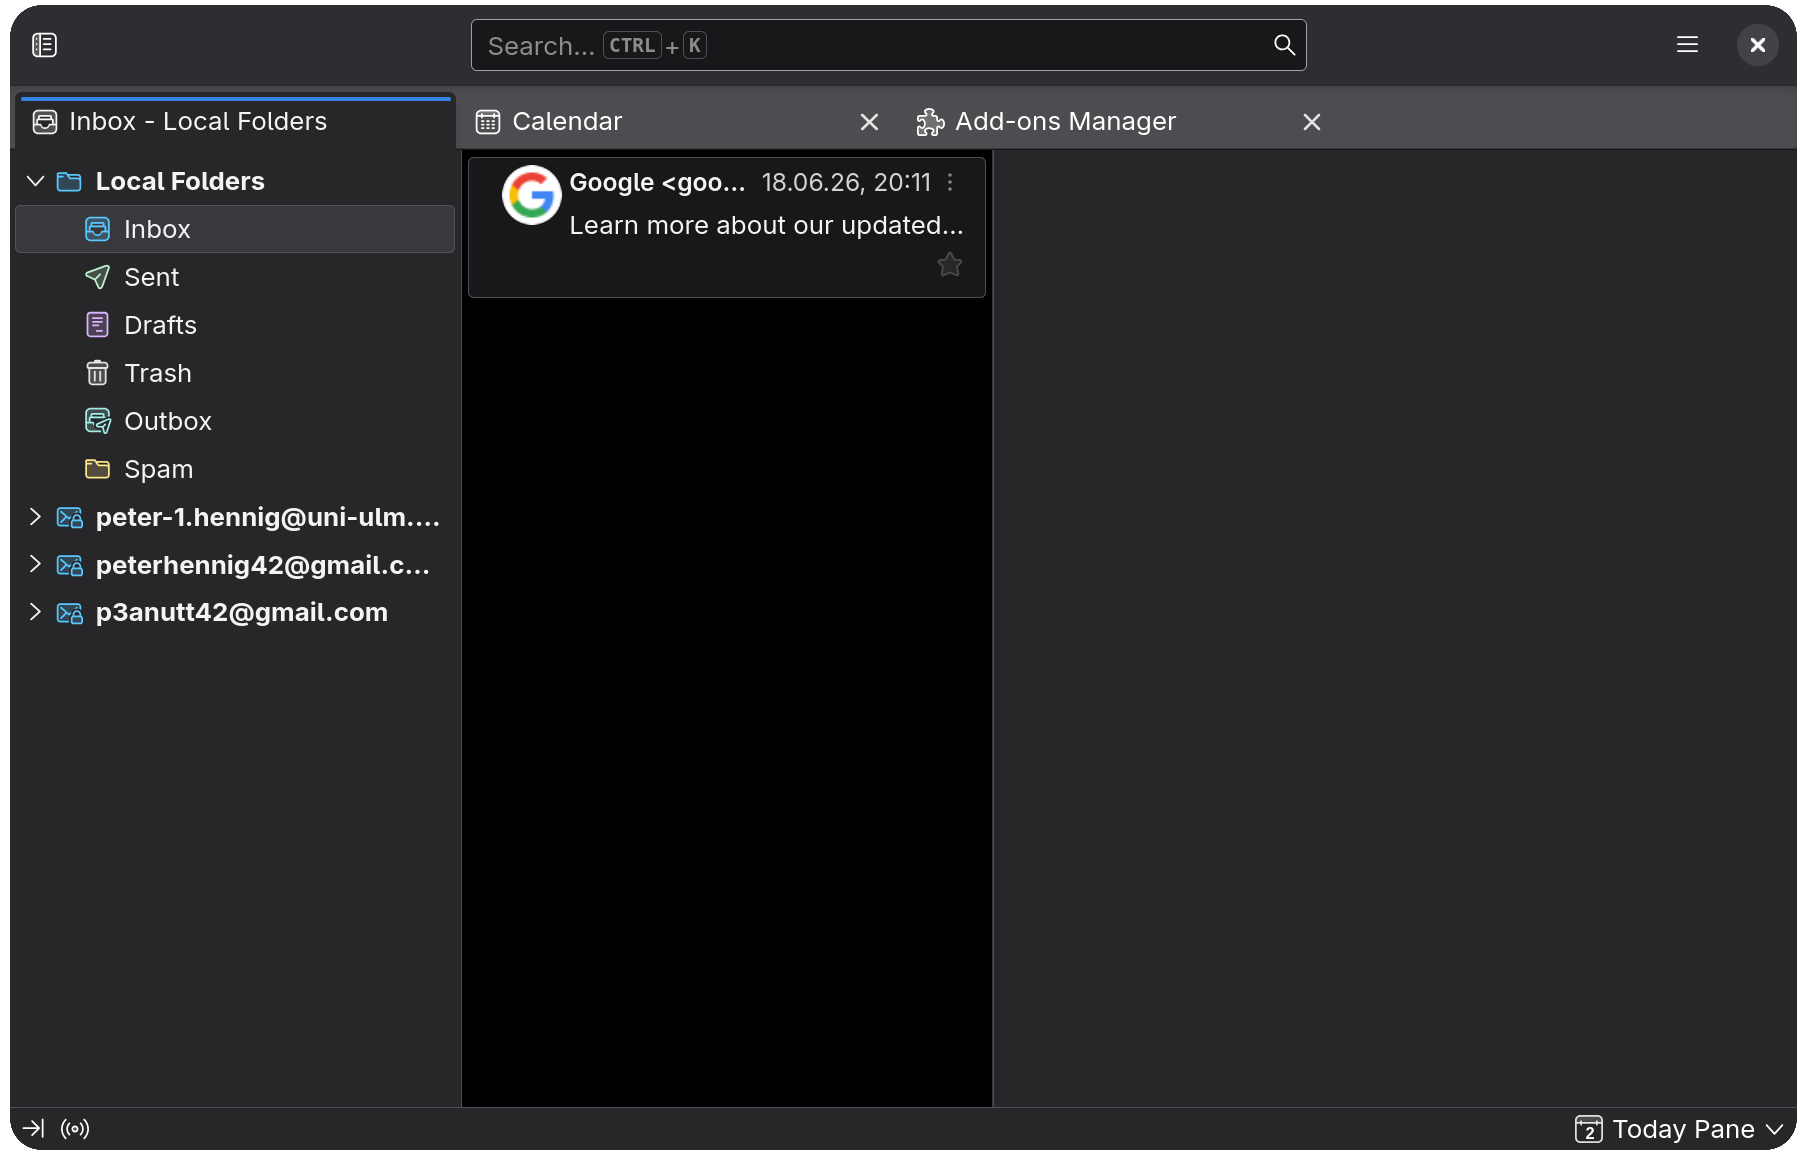
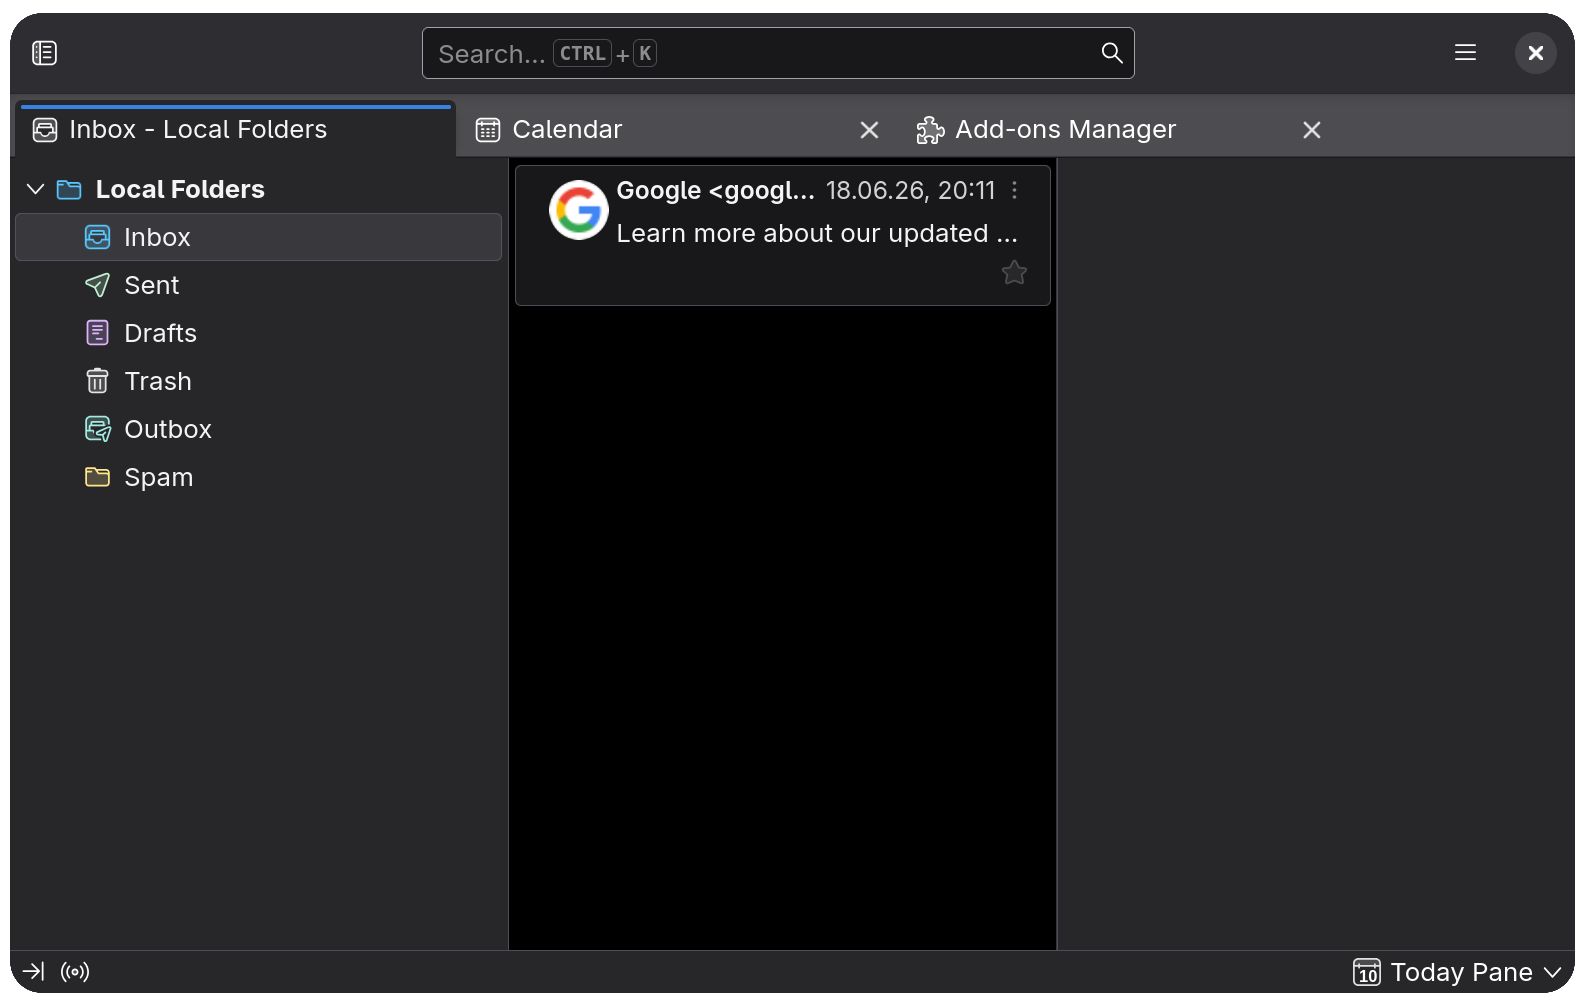
fix: sidebar splitter now dont overlap with emails
previously, the sidebar splitter overlapped a tiny bit with the emails
in the tree view, and also had different backgrounds.

now both have the same color and have correct margin so there is the
same bit of space between splitter and emails

Changed region(s): [[0.0, 0.0, 1.0, 1.0]]

diff --git a/style.css b/style.css
@@ -66,12 +66,9 @@
   background-color: black !important;
 }
 
-#folderPaneSplitter {
-  background-color: var(--sidebar-background-color) !important;
-  border-color: transparent !important;
-}
-
+#folderPaneSplitter,
 #messagePaneSplitter {
   background-color: var(--tree-view-bg) !important;
   border-color: transparent !important;
+  margin: 0px !important;
 }
